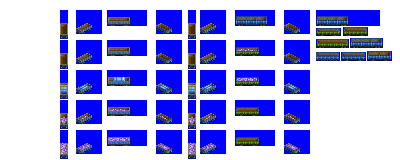
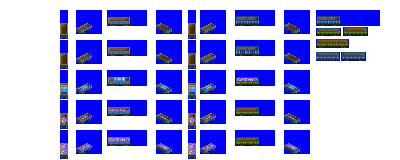
Fix: correct type for gen 5 open cars

diff --git a/src/vehicles/open_cars.py b/src/vehicles/open_cars.py
@@ -99,7 +99,7 @@ def main():
     consist = OpenConsist(roster='pony',
                           base_numeric_id=2460,
                           gen=5,
-                          subtype='A')
+                          subtype='B')
 
     consist.add_unit(type=FreightCar,
                      cargo_length=3,
@@ -111,7 +111,7 @@ def main():
     consist = OpenConsist(roster='pony',
                           base_numeric_id=2470,
                           gen=5,
-                          subtype='B')
+                          subtype='C')
 
     consist.add_unit(type=FreightCar,
                      cargo_length=3,
